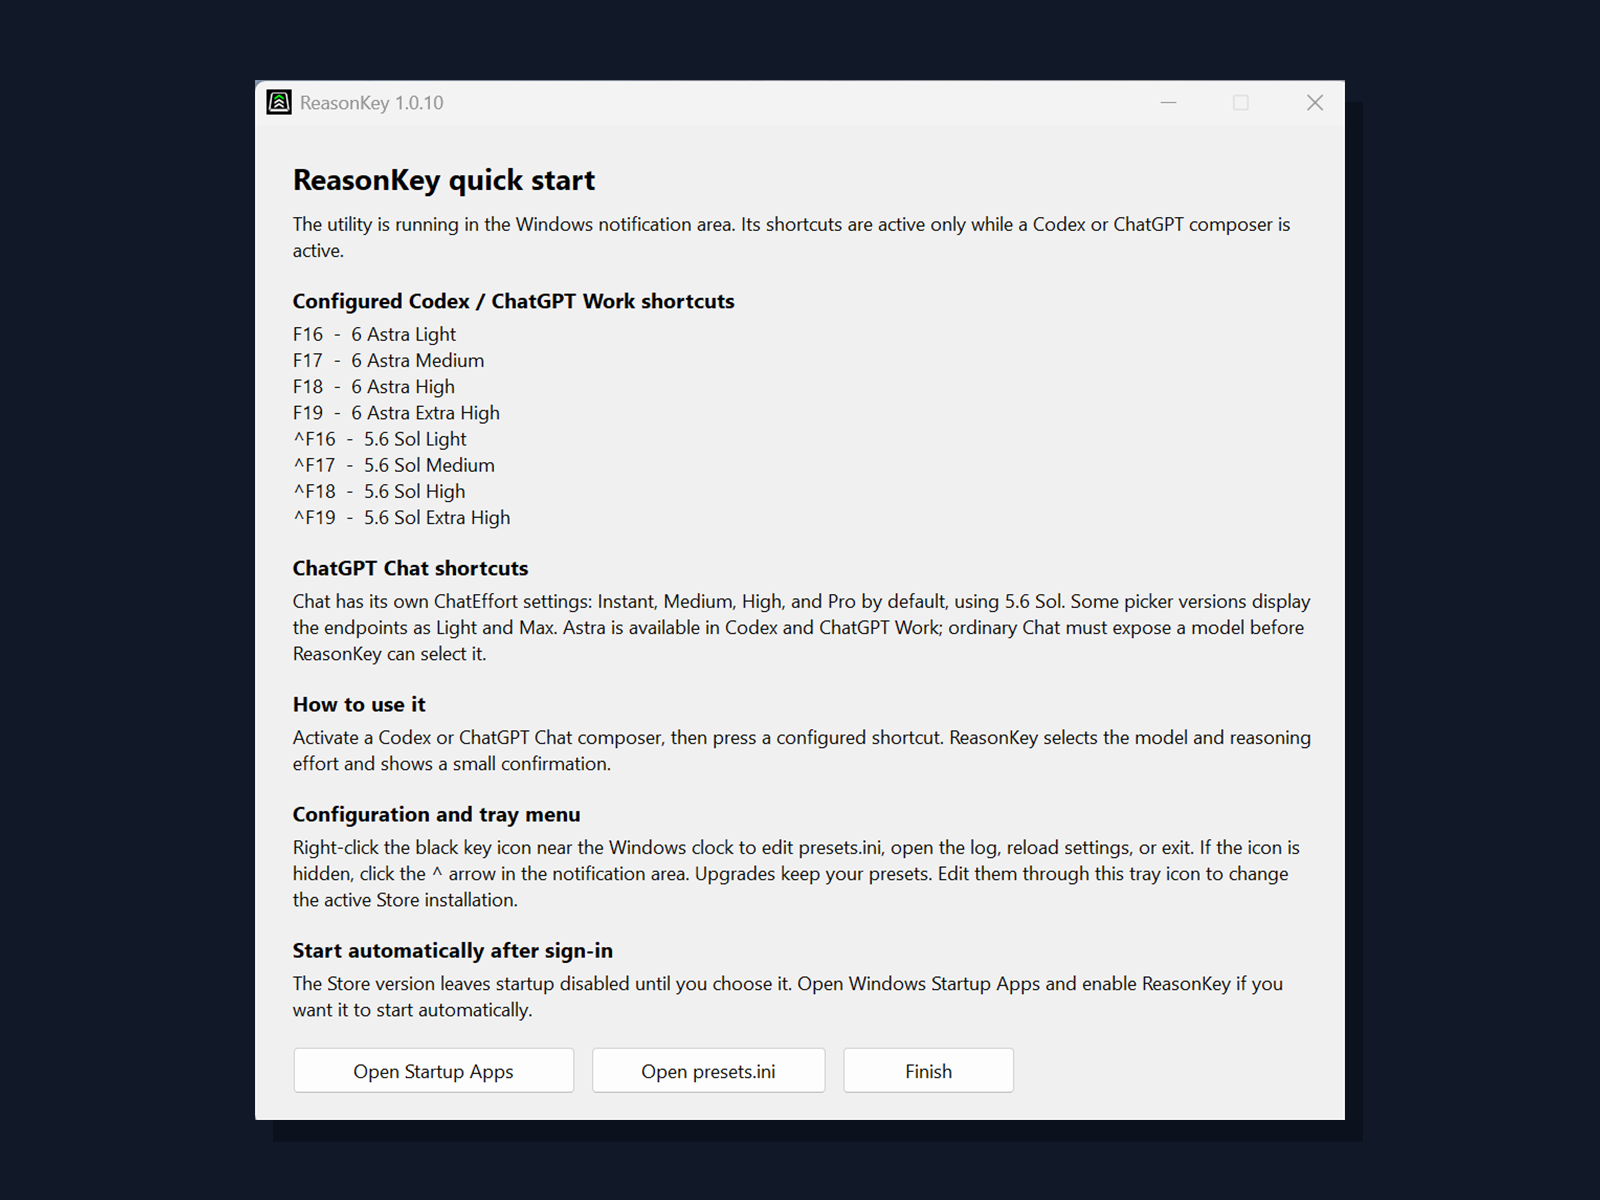
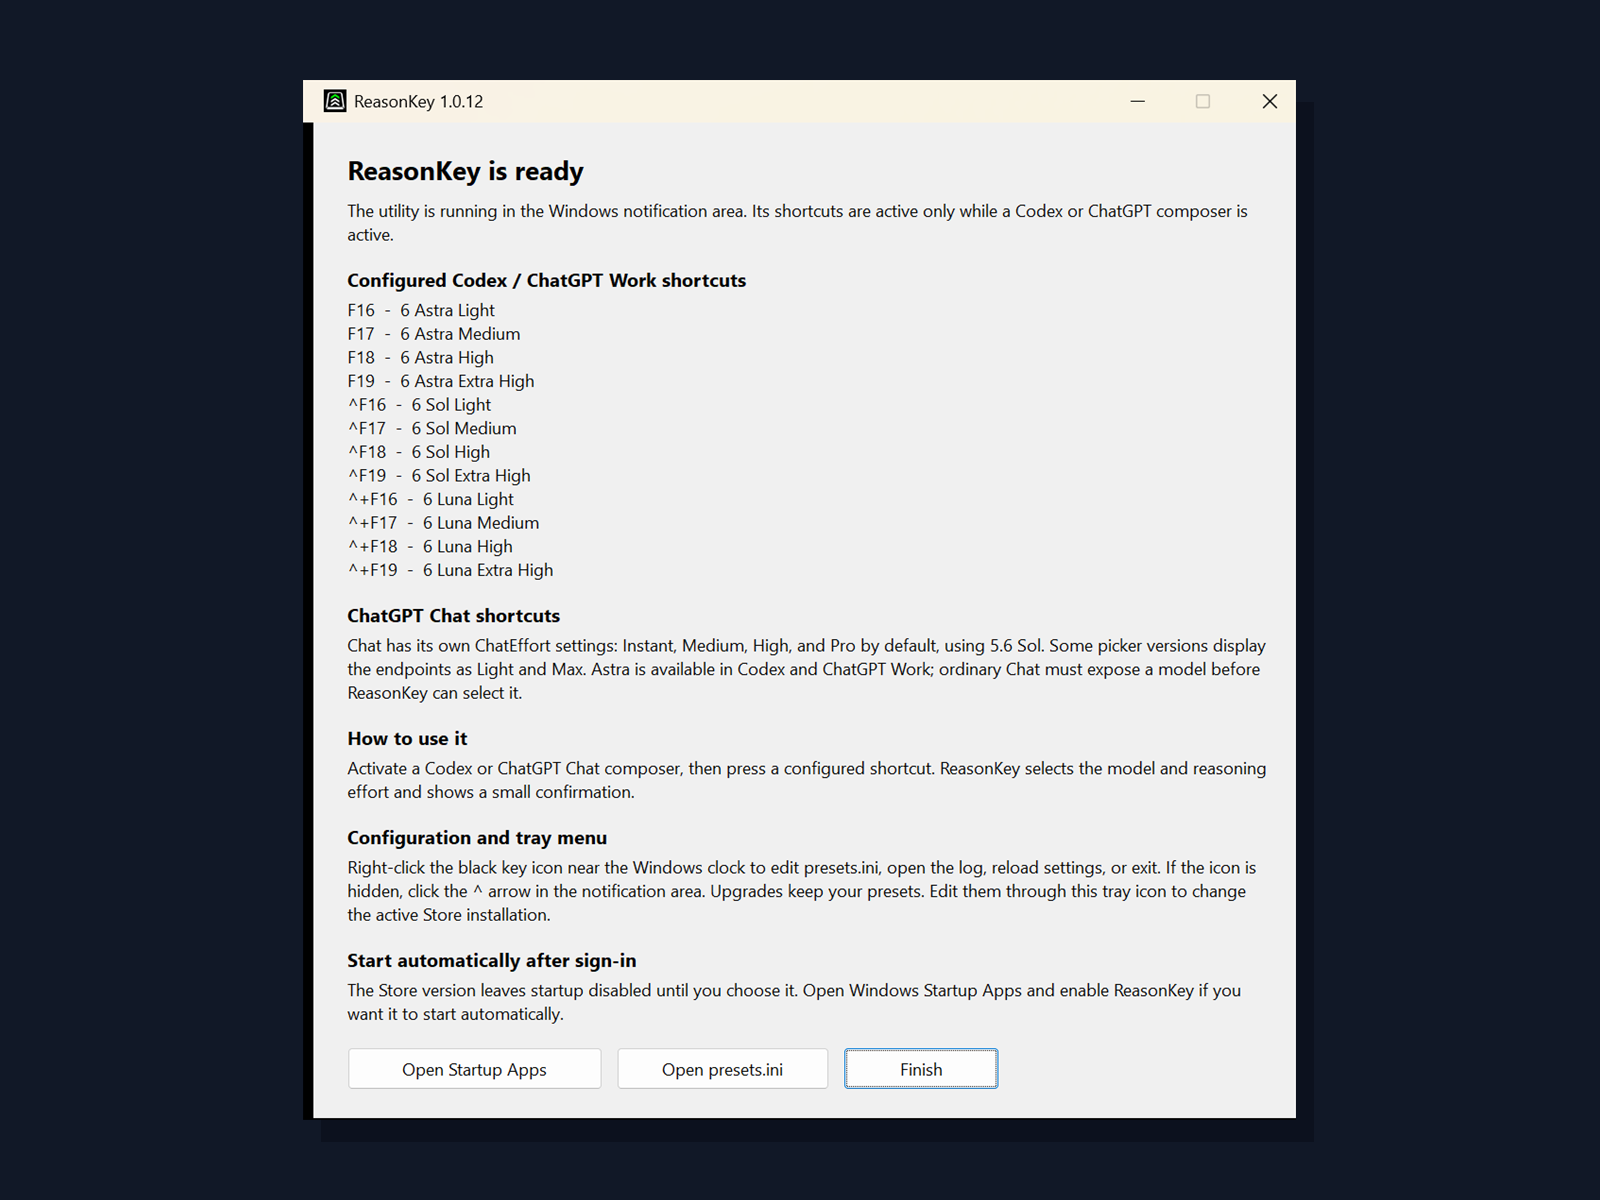
Release 1.0.12 with GPT-6 Sol and Luna hotkeys

Changed region(s): [[0.1562, 0.0617, 0.8438, 0.9558], [0.4062, 0.8633, 0.5, 0.925], [0.5312, 0.8633, 0.625, 0.925]]

diff --git a/docs/diagnostics/release-1.0.12.md b/docs/diagnostics/release-1.0.12.md
@@ -1,0 +1,72 @@
+# ReasonKey 1.0.12 release evidence
+
+Date: 2026-09-22 (America/Vancouver). Source: release changes on top of
+`a0d46b790dc04dc8fe7a672efd7dc12d6973dfe5`; final sources are identified by tag
+`v1.0.12`. Desktop app: OpenAI.Codex 26.915.4065.0, English picker labels.
+
+## Final artifacts and local checks
+
+Clean direct build and clean Store MSIX build completed. Compiled runtime and
+installer validation, cross-path singleton probe, uninstaller path guards,
+native updater build/self-test, and unpacked MSIX structural checks passed.
+The manifest-adjusted packaged executable also exited 0 for --validate.
+
+| Artifact | SHA-256 |
+|---|---|
[5 lines of base64/hex data omitted]
+
+Local reinstall preserved the active presets.ini SHA-256. The user's direct
+configuration was separately backed up and intentionally changed to the twelve
+requested presets. The existing Store configuration was retained; upgrades do
+not overwrite custom settings. Only recognized ReasonKey runtimes were stopped.
+
+## Real-window results
+
+Tests used the installed final direct 1.0.12 executable. Each result required
+the final accessible Button label (Chat uses its Text descendants), backed by
+modern-selected/modern-chat-selected and selected log records. Calls returning
+success or elapsed delays alone were not accepted as evidence.
+
+| Surface | Input | Expected and observed |
+|---|---|---|
+| Ordinary Chat | F16–F19, Ctrl+F16–F19, Ctrl+Shift+F16–F19 | All twelve: 5.6 Sol Instant, Medium, High, Pro (11:31–11:33) |
+| ChatGPT Work | F16–F19 | GPT-6 Astra Light, Medium, High, Extra High |
+| ChatGPT Work | Ctrl+F16–F19 | GPT-6 Sol Light, Medium, High, Extra High |
+| ChatGPT Work | Ctrl+Shift+F16–F19 | GPT-6 Luna Light, Medium, High, Extra High (Work matrix completed 11:35) |
+| Codex | F17–F19, then F16 from compact popup | GPT-6 Astra Medium, High, Extra High, Light (11:40–11:42) |
+| Codex | Ctrl+F16–F19 | GPT-6 Sol Light, Medium, High, Extra High (11:40–11:41) |
+| Codex | Ctrl+Shift+F16–F19 | GPT-6 Luna Light, Medium, High, Extra High (11:41) |
+| Work compact picker already open | Ctrl+F17 | GPT-6 Sol Medium (11:36:13) |
+| Codex compact picker already open | F16 | GPT-6 Astra Light (11:42:10) |
+| Ordinary Chat model-radio view already open | F16 | 5.6 Sol Instant (11:31) |
+
+The visible ordinary Chat catalog offered Latest, GPT-5.6 Sol and GPT-5.5;
+GPT-6 Astra/Sol/Luna were available in Work/Codex. Chat selection remains
+independent through ChatEffort. Diagnostic mode was returned to Codex and the
+original GPT-6 Astra High restored at 11:42:27. No prompts were submitted.
+Interrupted attempts during concurrent user input were excluded.
+
+Local evidence: `%LOCALAPPDATA%/ReasonKey/ReasonKey.log`; independent native
+accessibility snapshots in the task. The checked-in 1.0.12 Quick Start image
+shows all twelve presets; Store canvas SHA-256 is
[1 lines of base64/hex data omitted]
+
+## Unverified gates
+
+WACK and signed-development-package installation were not run because this
+session is not elevated and cannot install the development trust certificate.
+Unpacked payload validation is not an installed-package test. Legacy app builds,
+the Work/Codex already-open model-radio case, custom Astra Max/Ultra, destructive
+uninstall, clean-profile installation, both-order direct/Store launch, and actual
+public Store update/restart were not reverified for 1.0.12. Existing compatibility
+paths were retained; earlier release evidence is not a new pass.
+
+## Distribution
+
+Partner Center identity was checked against the reserved product. Submission 8
+(`1152921505701953722`) accepted the unsigned final MSIX as Validated. Listing
+and submission publication state are recorded after the final submission below.

diff --git a/README.md b/README.md
@@ -129,12 +129,16 @@ In **Codex** and **ChatGPT Work**, new installations use:
 | `F17` | GPT-6 Astra | Medium |
 | `F18` | GPT-6 Astra | High |
 | `F19` | GPT-6 Astra | Extra High |
-| `Ctrl+F16` | GPT-5.6 Sol | Light |
-| `Ctrl+F17` | GPT-5.6 Sol | Medium |
-| `Ctrl+F18` | GPT-5.6 Sol | High |
-| `Ctrl+F19` | GPT-5.6 Sol | Extra High |
+| `Ctrl+F16` | GPT-6 Sol | Light |
+| `Ctrl+F17` | GPT-6 Sol | Medium |
+| `Ctrl+F18` | GPT-6 Sol | High |
+| `Ctrl+F19` | GPT-6 Sol | Extra High |
+| `Ctrl+Shift+F16` | GPT-6 Luna | Light |
+| `Ctrl+Shift+F17` | GPT-6 Luna | Medium |
+| `Ctrl+Shift+F18` | GPT-6 Luna | High |
+| `Ctrl+Shift+F19` | GPT-6 Luna | Extra High |
 
-When the composer is in **ChatGPT Chat** instead of **Codex**, both shortcut
+When the composer is in **ChatGPT Chat** instead of **Codex**, all three shortcut
 groups select 5.6 Sol on Chat's independent Power scale:
 
 | Shortcut | Chat model | Power |
@@ -147,13 +151,17 @@ groups select 5.6 Sol on Chat's independent Power scale:
 | `Ctrl+F17` | 5.6 Sol | Medium |
 | `Ctrl+F18` | 5.6 Sol | High |
 | `Ctrl+F19` | 5.6 Sol | Pro |
+| `Ctrl+Shift+F16` | 5.6 Sol | Instant |
+| `Ctrl+Shift+F17` | 5.6 Sol | Medium |
+| `Ctrl+Shift+F18` | 5.6 Sol | High |
+| `Ctrl+Shift+F19` | 5.6 Sol | Pro |
 
 Chat uses its independent `ChatEffort` values. Some unified-picker versions
 display the `Instant` and `Pro` endpoints as `Light` and `Max`; ReasonKey
 retains that compatibility. An unavailable option fails explicitly instead of silently
 choosing a different level.
 
-Ordinary Chat has a separate model catalog. In the tested 26.903 app it exposes
+Ordinary Chat has a separate model catalog. In the tested 26.915 app it exposes
 Latest, GPT-5.6 Sol and GPT-5.5, without Astra. Use **Codex** or **ChatGPT Work**
 for the Astra presets above; ReasonKey cannot unlock a model absent from the picker.
 
@@ -184,7 +192,11 @@ Sol shortcuts to an existing installation, copy Preset5–Preset8 from **Open
 configuration guide**, set `PresetCount=8`, then reload. The tray
 command opens the file used by the active runtime.
 
-Supported model names are `Luna`, `Terra`, `Sol`, and `Astra` (GPT-6).
+Supported model names are `Luna` (GPT-5.6), `Luna6` (GPT-6 Luna), `Terra`, `Sol` (GPT-5.6), `Sol6` (GPT-6 Sol), and `Astra` (GPT-6).
+For GPT-6 Luna, use `Model=Luna6` (or `Model=GPT-6 Luna`). To add the
+Ctrl+Shift group, copy Preset9–Preset12 from the guide and set `PresetCount=12`.
+In ordinary Chat, Ctrl+Shift uses the same four Chat Power levels listed above.
+For GPT-6 Sol, set `Model=Sol6` (or `Model=GPT-6 Sol`); existing `Model=Sol` still selects GPT-5.6 Sol.
 To select GPT-6 Astra, set `Model=Astra` in the desired preset, save, and
 choose **Reload** from the tray menu. For example, `Model=Astra` with
 `Effort=Max` selects `6 Astra Max` in Codex. Existing presets and ChatGPT's
@@ -229,7 +241,7 @@ details.
 - English UI labels in the current release
 
 The current unified Codex and ChatGPT paths were validated against desktop
-package `OpenAI.Codex_26.903.8094.0_x64__2p2nqsd0c76g0`. The legacy Advanced
+package `OpenAI.Codex_26.915.4065.0_x64__2p2nqsd0c76g0`. The legacy Advanced
 path remains for compatibility with the earlier 26.825 builds. UI Automation
 labels are not a public compatibility contract, so future desktop updates can
 require selector updates.

diff --git a/docs/product-spec/configuration.md b/docs/product-spec/configuration.md
@@ -21,22 +21,31 @@ does not expose Astra.
 | F17 | Astra | Medium | Medium | Medium |
 | F18 | Astra | High | High | High |
 | F19 | Astra | Extra High | Pro | Max |
-| Ctrl+F16 | Sol | Light | Instant | Light |
-| Ctrl+F17 | Sol | Medium | Medium | Medium |
-| Ctrl+F18 | Sol | High | High | High |
-| Ctrl+F19 | Sol | Extra High | Pro | Max |
+| Ctrl+F16 | Sol6 | Light | Instant | Light |
+| Ctrl+F17 | Sol6 | Medium | Medium | Medium |
+| Ctrl+F18 | Sol6 | High | High | High |
+| Ctrl+F19 | Sol6 | Extra High | Pro | Max |
+| Ctrl+Shift+F16 | Luna6 | Light | Instant | Light |
+| Ctrl+Shift+F17 | Luna6 | Medium | Medium | Medium |
+| Ctrl+Shift+F18 | Luna6 | High | High | High |
+| Ctrl+Shift+F19 | Luna6 | Extra High | Pro | Max |
 
-- Model names: Luna, Terra, Sol (5.6) and Astra (6). Efforts: Light, Medium, High, Extra High, Max,
+- Model names: Luna (5.6), Luna6 (6 Luna), Terra, Sol (5.6), Sol6 (6 Sol) and Astra (6).
+  Efforts: Light, Medium, High, Extra High, Max,
   Ultra; actual availability must be exposed by the target picker.
 - Codex aliases: Low → Light; xhigh → Extra High. Names are trimmed and
   case-insensitive.
 - Astra also accepts GPT-6 Astra, gpt-6-astra and 6 Astra. Its Codex label uses
   6 Astra rather than the 5.6 prefix; default presets and Chat mapping
   remain as shown above.
+- Luna6 also accepts GPT-6 Luna, gpt-6-luna and 6 Luna; Model=Luna retains 5.6.
+- Sol6 also accepts GPT-6 Sol, gpt-6-sol and 6 Sol.
+  Existing Model=Sol retains GPT-5.6 Sol; Chat remains on its independent
+  5.6 Sol mapping.
 - ChatEffort accepts Instant, Medium, High, Pro. Extra High is not a supported
   ChatEffort configuration value even though a legacy UI exposed that option.
 - Missing ChatEffort uses the legacy defaults above for sections 1–4. Sections
-  5–8 in the shipped configuration specify ChatEffort explicitly; further
+  5–12 in the shipped configuration specify ChatEffort explicitly; further
   sections must also specify it to work in Chat.
 - Use AutoHotkey keyboard syntax, unique hotkeys and consecutive Preset sections.
   Reload after editing. No wheel-cycle feature; legacy CycleUp/CycleDown keys
@@ -57,12 +66,12 @@ Source inspection: 2026-09-13, working-tree runtime AppVersion 1.0.11; see the A
 UI and upgrade proof.
 
 In [ReasonKey.ahk](../../src/ReasonKey.ahk), LoadPresets reads General/PresetCount
-(legacy missing/invalid value → 4, clamped to 1–20; shipped INI specifies 8),
+(legacy missing/invalid value → 4, clamped to 1–20; shipped INI specifies 12),
 then Preset1 through
 PresetN. Hotkey, normalized Model and normalized Effort must be nonempty or that
 section is skipped. Missing Name defaults to the normalized model/effort label.
 
-A missing configuration file or zero accepted sections loads the eight
+A missing configuration file or zero accepted sections loads the twelve
 DefaultPresets.
 An invalid ChatEffort normalizes to empty without discarding an otherwise valid
 Codex preset; applying it in Chat fails. RegisterConfiguredHotkeys separately

diff --git a/packaging/store/StoreListing.en-US.md b/packaging/store/StoreListing.en-US.md
@@ -32,20 +32,23 @@ Default presets in Codex and ChatGPT Work:
 - F17: GPT-6 Astra, Medium
 - F18: GPT-6 Astra, High
 - F19: GPT-6 Astra, Extra High
-- Ctrl+F16: GPT-5.6 Sol, Light
-- Ctrl+F17: GPT-5.6 Sol, Medium
-- Ctrl+F18: GPT-5.6 Sol, High
-- Ctrl+F19: GPT-5.6 Sol, Extra High
+- Ctrl+F16: GPT-6 Sol, Light
+- Ctrl+F17: GPT-6 Sol, Medium
+- Ctrl+F18: GPT-6 Sol, High
+- Ctrl+F19: GPT-6 Sol, Extra High
+- Ctrl+Shift+F16–F19: GPT-6 Luna, Light / Medium / High / Extra High
 
-Ordinary Chat has a separate model catalog. The tested 26.903 app offers
-Latest, GPT-5.6 Sol and GPT-5.5 there, without Astra. Use Codex or ChatGPT Work
-for Astra; ReasonKey cannot unlock an unavailable model.
+Ordinary Chat has a separate model catalog. The tested 26.915 app offers
+Latest, GPT-5.6 Sol and GPT-5.5 there, without GPT-6 Astra, Sol or Luna. Use Codex or ChatGPT Work
+for GPT-6 models; ReasonKey cannot unlock an unavailable model.
 
 Upgrades preserve existing presets. To adopt Astra after upgrading, open
 presets.ini from the running ReasonKey tray icon, set the first four Model
 values to Astra and Effort to Light, Medium, High, Extra High, then reload.
 To add Ctrl+F16 through Ctrl+F19 to an existing installation, copy Preset5–8
 from the configuration guide, set PresetCount to 8, and reload.
+For Ctrl+Shift, copy Preset9–12, set PresetCount to 12, and reload.
+To update existing Ctrl presets, set Model=Sol6 in Preset5–8.
 Store and direct EXE installations keep separate configuration files.
 
 Shortcuts and presets can be edited in a documented `presets.ini` file from the
@@ -99,9 +102,11 @@ Copyright 2026 ReasonKey contributors. Codex, ChatGPT, and OpenAI are the
 property of their respective owners. This product is not affiliated with or
 endorsed by OpenAI.
 
-## What's new in 1.0.11
+## What's new in 1.0.12
 
-- Add Ctrl+F16–Ctrl+F19 for GPT-5.6 Sol Light, Medium, High, and Extra High in
-  Codex and ChatGPT Work.
-- Keep F16–F19 on GPT-6 Astra at the same four effort levels.
-- Keep ordinary Chat's separate Sol Instant, Medium, High, and Pro mapping.
+- Ctrl+F16–F19 now default to GPT-6 Sol.
+- Add Ctrl+Shift+F16–F19 for GPT-6 Luna.
+- Each group selects Light, Medium, High, or Extra High.
+- Keep F16–F19 on Astra and ordinary Chat on its separate Instant, Medium, High, and Pro levels.
+- Upgrades preserve existing configurations.
+- To adopt all twelve shortcuts, copy the presets from the configuration guide.

diff --git a/docs/DEVELOPMENT.md b/docs/DEVELOPMENT.md
@@ -131,10 +131,11 @@ user INI and restore any deliberately changed composer mode/preset afterward.
    - F17 → `GPT-6 Astra Medium`
    - F18 → `GPT-6 Astra High`
    - F19 → `GPT-6 Astra Extra High`
-   - Ctrl+F16 → `GPT-5.6 Sol Light`
-   - Ctrl+F17 → `GPT-5.6 Sol Medium`
-   - Ctrl+F18 → `GPT-5.6 Sol High`
-   - Ctrl+F19 → `GPT-5.6 Sol Extra High`
+   - Ctrl+F16 → `GPT-6 Sol Light`
+   - Ctrl+F17 → `GPT-6 Sol Medium`
+   - Ctrl+F18 → `GPT-6 Sol High`
+   - Ctrl+F19 → `GPT-6 Sol Extra High`
+   - Ctrl+Shift+F16–F19 → `GPT-6 Luna` Light, Medium, High, Extra High;
 2. Current unified picker in Codex, starting already open:
    - from compact `Select model` / `Power`, trigger a different preset;
    - from the model radio view, trigger a different preset;
@@ -150,7 +151,7 @@ user INI and restore any deliberately changed composer mode/preset afterward.
    - F17 → `5.6 Sol Medium`;
    - F18 → `5.6 Sol High`;
    - F19 → `5.6 Sol Pro` (or Max on older combined-label pickers);
-   - Ctrl+F16–Ctrl+F19 → the same independent Chat Power levels as F16–F19;
+   - Ctrl+F16–Ctrl+F19 and Ctrl+Shift+F16–F19 → the same independent Chat Power levels as F16–F19;
    - confirm the ordinary Chat composer is detected independently from Work and is
      restored to Codex after any diagnostic test.
 4. Legacy picker compatibility (when an older supported app build is
@@ -190,7 +191,8 @@ throw. Verify the corresponding accessible state change.
 
 ## Release
 
-Recorded [1.0.11 release evidence](diagnostics/release-1.0.11.md),
+Recorded [1.0.12 release evidence](diagnostics/release-1.0.12.md),
+[1.0.11 release evidence](diagnostics/release-1.0.11.md),
 [1.0.10 release evidence](diagnostics/release-1.0.10.md), and earlier
 [Astra development evidence](diagnostics/astra-validation-20260905.md) are
 separate from these reusable release gates.

diff --git a/docs/diagnostics/sol6-validation-20260922.md b/docs/diagnostics/sol6-validation-20260922.md
@@ -1,0 +1,33 @@
+# GPT-6 Sol Ctrl presets: local validation
+
+Date: 2026-09-22. Base commit: a0d46b790dc04dc8fe7a672efd7dc12d6973dfe5,
+with uncommitted Sol6 runtime, configuration and documentation changes.
+Runtime version remains 1.0.11; this is a local build, not a published release.
+Codex package: OpenAI.Codex 26.915.4065.0.
+
+Runtime SHA-256:
[1 lines of base64/hex data omitted]
+
+Source --validate, Build.ps1 (compiled checks), documentation validation and
+git diff --check passed. Build.ps1 was run without -Clean for this local change.
+
+Installed the local direct build. Backed up the previous direct presets.ini,
+copied the active Store presets and changed only Preset5-8 Name/Model values.
+The original Store configuration remains intact. Setup logged install-complete
+and the direct runtime logged startup with PID 65304 and eight presets.
+
+Starting with the Codex picker closed at GPT-6 Astra Medium, sent real hotkeys:
+
+| Hotkey | Final Button verified by runtime UIA | Local log time |
+|---|---|---|
+| Ctrl+F16 | GPT-6 Sol Light | 11:17:19 |
+| Ctrl+F17 | GPT-6 Sol Medium | 11:17:39 |
+| Ctrl+F18 | GPT-6 Sol High | 11:18:05 |
+| Ctrl+F19 | GPT-6 Sol Extra High | 11:18:18 |
+
+Evidence: %LOCALAPPDATA%/ReasonKey/ReasonKey.log, paired modern-selected and
+selected records after exact Button verification. Independent desktop snapshots
+also observed Light, Medium and High. The UI tool subsequently rejected input
+because it detected user interaction; open-picker cases were not completed. The runtime subsequently logged
+GPT-6 Astra Medium at 11:19:08. Chat, Work, legacy picker,
+Store delivery and restart-after-sign-in behavior were not tested in this task.

diff --git a/packaging/store/CertificationNotes.md b/packaging/store/CertificationNotes.md
@@ -37,16 +37,17 @@ desktop app is absent. For a complete functional test:
 1. Install and open the official Codex/ChatGPT Windows desktop app.
 2. Sign in with a tester-owned OpenAI account.
 3. Keep a Codex composer active.
-4. Press F16, F17, F18, F19, or their Ctrl-modified variants.
+4. Press F16, F17, F18, F19, or their Ctrl and Ctrl+Shift variants.
 5. Confirm the combined model/effort label changes to the corresponding value.
 
 The same shortcuts must also be tested in a ChatGPT Chat composer. They select
 5.6 Sol with Instant, Medium, High, and Pro in ordinary Chat. Older combined-label
 pickers use Light and Max endpoints as documented in the public README.
 Codex and ChatGPT Work defaults select GPT-6 Astra Light, Medium, High, and
-Extra High on F16–F19, and GPT-5.6 Sol at the same effort levels on
-Ctrl+F16–Ctrl+F19. Ordinary Chat's separate catalog does not expose Astra on the
-tested 26.903.8094.0 app. Upgrades preserve the active configuration, so an
+Extra High on F16–F19, and GPT-6 Sol at the same effort levels on
+Ctrl+F16–Ctrl+F19. Ctrl+Shift+F16–F19 select GPT-6 Luna at the same levels.
+Ordinary Chat's separate catalog does not expose GPT-6 Astra, Sol or Luna on the
+tested 26.915.4065.0 app. Upgrades preserve the active configuration, so an
 existing install may still show customized or older presets in Quick Start.
 
 No publisher-supplied Codex or OpenAI credentials are required or included.

diff --git a/packaging/store/README.md b/packaging/store/README.md
@@ -16,7 +16,9 @@ by the [product core](../../docs/product-spec.md); release history is kept in
 - `assets/ReasonKey-QuickStart-window.png` - the user-supplied Quick Start
   screenshot with all eight shortcuts, preserved unchanged at 1041x993 pixels.
   Its window title shows the installed 1.0.10 runtime used for the capture.
-- `assets/StoreScreenshot-ReasonKey-QuickStart.png` - that screenshot framed
+- `assets/ReasonKey-QuickStart-1.0.12-window.png` - current actual Quick Start
+  capture, showing all twelve configured shortcuts at 1051x1101 pixels.
+- `assets/StoreScreenshot-ReasonKey-QuickStart.png` - the 1.0.12 screenshot framed
   without cropping on a 1600x1200 neutral canvas for the Store listing.
 
 The 300x300 Store logo and manifest image variants are generated from
@@ -41,7 +43,7 @@ Capture the window and then build the Store-sized neutral canvas:
 ```powershell
 .\scripts\Capture-StoreWindow.ps1 -ProcessId <preview-process-id>
 .\scripts\Build-StoreScreenshot.ps1 `
-  -WindowScreenshot packaging\store\assets\ReasonKey-QuickStart-window.png `
+  -WindowScreenshot packaging\store\assets\ReasonKey-QuickStart-1.0.12-window.png `
   -CanvasWidth 1600 -CanvasHeight 1200
 ```
 

diff --git a/docs/PROJECT_CONTEXT.md b/docs/PROJECT_CONTEXT.md
@@ -2,8 +2,8 @@
 
 Source/navigation context, not a second product specification or a release log.
 Read the [product core](product-spec.md) and affected owners first.
-Snapshot: 2026-09-13; working-tree runtime and installer declare AppVersion 1.0.11.
-Source support includes Astra; this snapshot does not establish publication.
+Snapshot: 2026-09-22; working-tree runtime and installer declare AppVersion 1.0.12.
+Source support includes GPT-6 Astra, Sol and Luna; this snapshot does not establish publication.
 
 ## Repository
 
@@ -42,7 +42,8 @@ public Store delivery.
 ## Evidence boundaries
 
 The source map above comes from source inspection. Current release evidence is
-in [1.0.11 validation](diagnostics/release-1.0.11.md). Previous
+in [1.0.12 validation](diagnostics/release-1.0.12.md). Previous
+[1.0.11 validation](diagnostics/release-1.0.11.md) and
 [1.0.10 validation](diagnostics/release-1.0.10.md) includes actual Codex,
 ChatGPT Work and ordinary Chat results and its remaining external gates.
 [Picker history](diagnostics/picker-validation-history.md) records earlier app

diff --git a/docs/product-spec/picker.md b/docs/product-spec/picker.md
@@ -33,7 +33,7 @@ Read through the [product core](../product-spec.md).
 
 ## Current implementation
 
-Source inspection: 2026-09-13, working-tree [ReasonKey.ahk](../../src/ReasonKey.ahk) 1.0.11.
+Source inspection: 2026-09-22, working-tree [ReasonKey.ahk](../../src/ReasonKey.ahk) 1.0.12.
 
 | Area | Source entry points / current accessible surface |
 |---|---|
@@ -59,7 +59,7 @@ combined model/effort Button. GetPickerSearchRoot returns failure when neither
 the focused popup nor a supplied target-window fallback is available, without
 falling back to a desktop-wide scan.
 
-Selectors recognize 5.6 Luna/Terra/Sol and GPT-6 Astra (also 6 Astra) through GetModelLabel,
+Selectors recognize 5.6 Luna/Terra/Sol and GPT-6 Astra/Sol/Luna (also 6 Astra/Sol/Luna) through GetModelLabel,
 GetModelOptionPattern and GetPickerTriggerPattern, including reopening the
 picker and returning from Astra to a 5.6 model. This records source support,
 not a claim that every account or desktop version exposes those

diff --git a/CHANGELOG.md b/CHANGELOG.md
@@ -1,5 +1,13 @@
 # Changelog
 
+## 1.0.12 - 2026-09-22
+
+- Change Ctrl+F16–F19 defaults to GPT-6 Sol Light, Medium, High, Extra High.
+- Add Ctrl+Shift+F16–F19 for GPT-6 Luna at the same effort levels.
+- Add Sol6 and Luna6 model names and GPT-6 aliases, preserving older Sol/Luna
+  configurations and ordinary Chat mapping. Upgrades preserve active presets.
+- Keep F16–F19 on GPT-6 Astra; include twelve defaults in the configuration guide.
+
 ## 1.0.11 - 2026-09-13
 
 - Keep F16–F19 on GPT-6 Astra Light, Medium, High, and Extra High.
